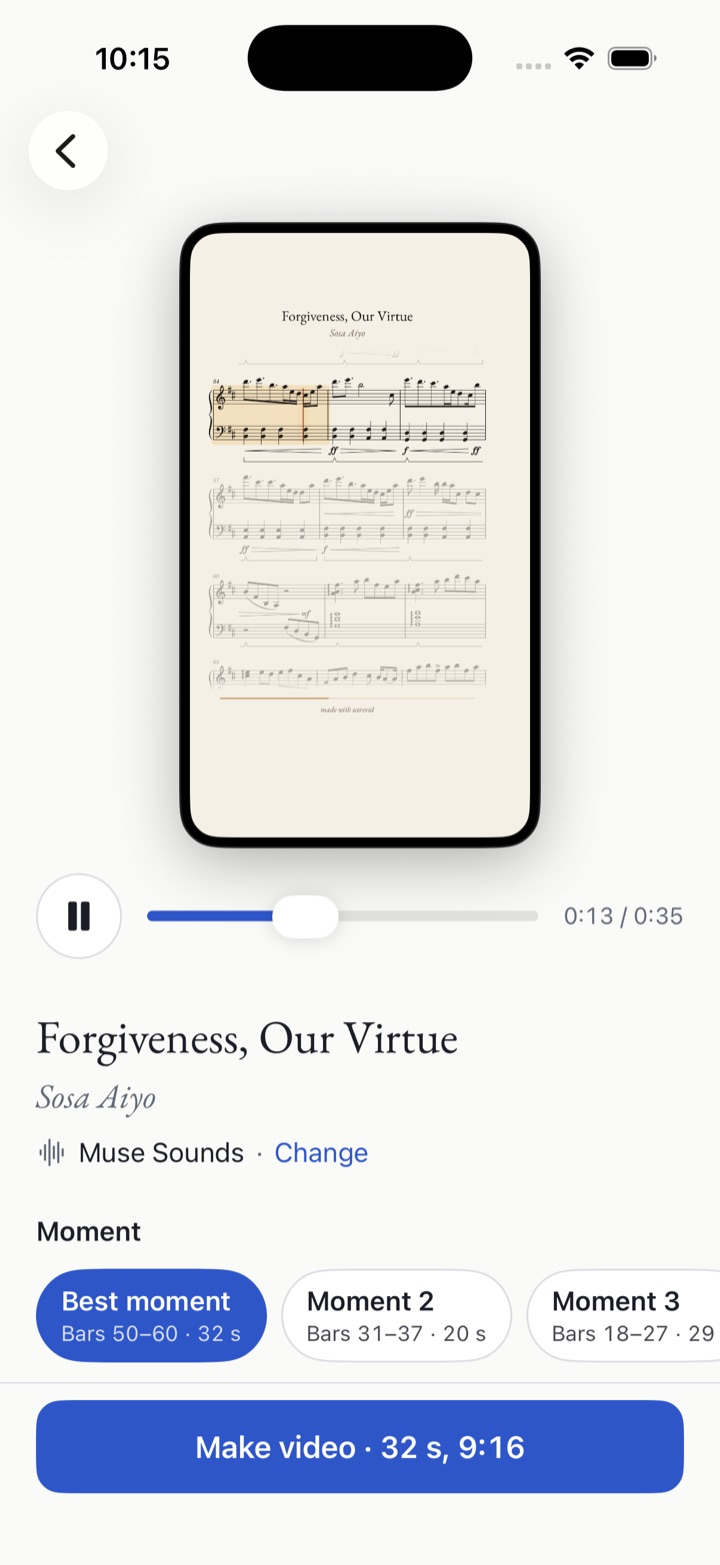
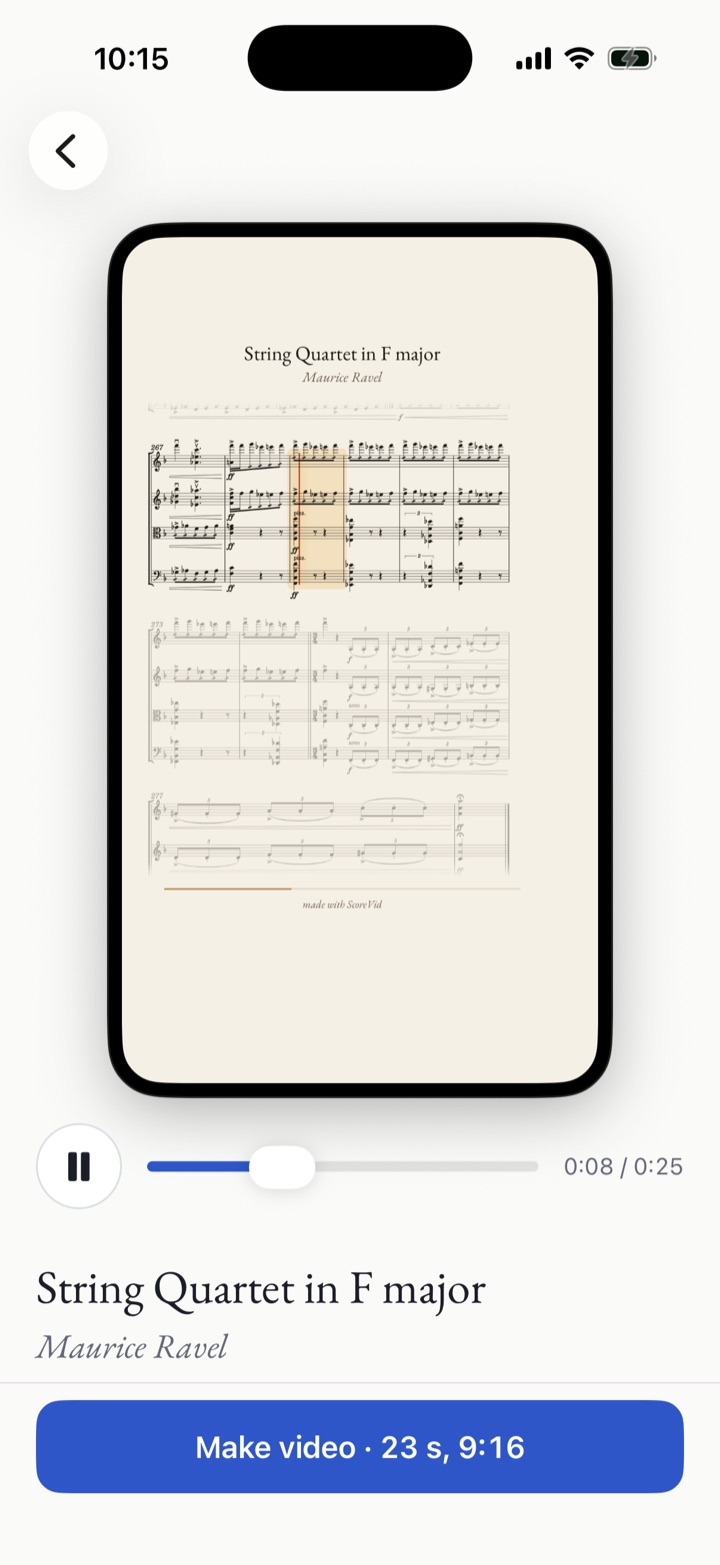
Use a Ravel string quartet for the ScoreVid screenshot

diff --git a/index.html b/index.html
@@ -165,7 +165,7 @@ footer a { color: inherit; }
   <section class="product" aria-labelledby="scorevid">
     <div class="phone">
       <img src="assets/scorevid-editor.jpg" width="720" height="1565" loading="lazy"
-           alt="ScoreVid on an iPhone, playing a piano score that scrolls with the music, with the best moment (bars 50 to 60) chosen and a Make video button">
+           alt="ScoreVid on an iPhone, previewing Ravel's String Quartet in F major: the score scrolls with the music and the bar being played is highlighted, above a Make video button">
     </div>
     <div>
       <p class="kicker">Our first app <span class="status">In private testing</span></p>
